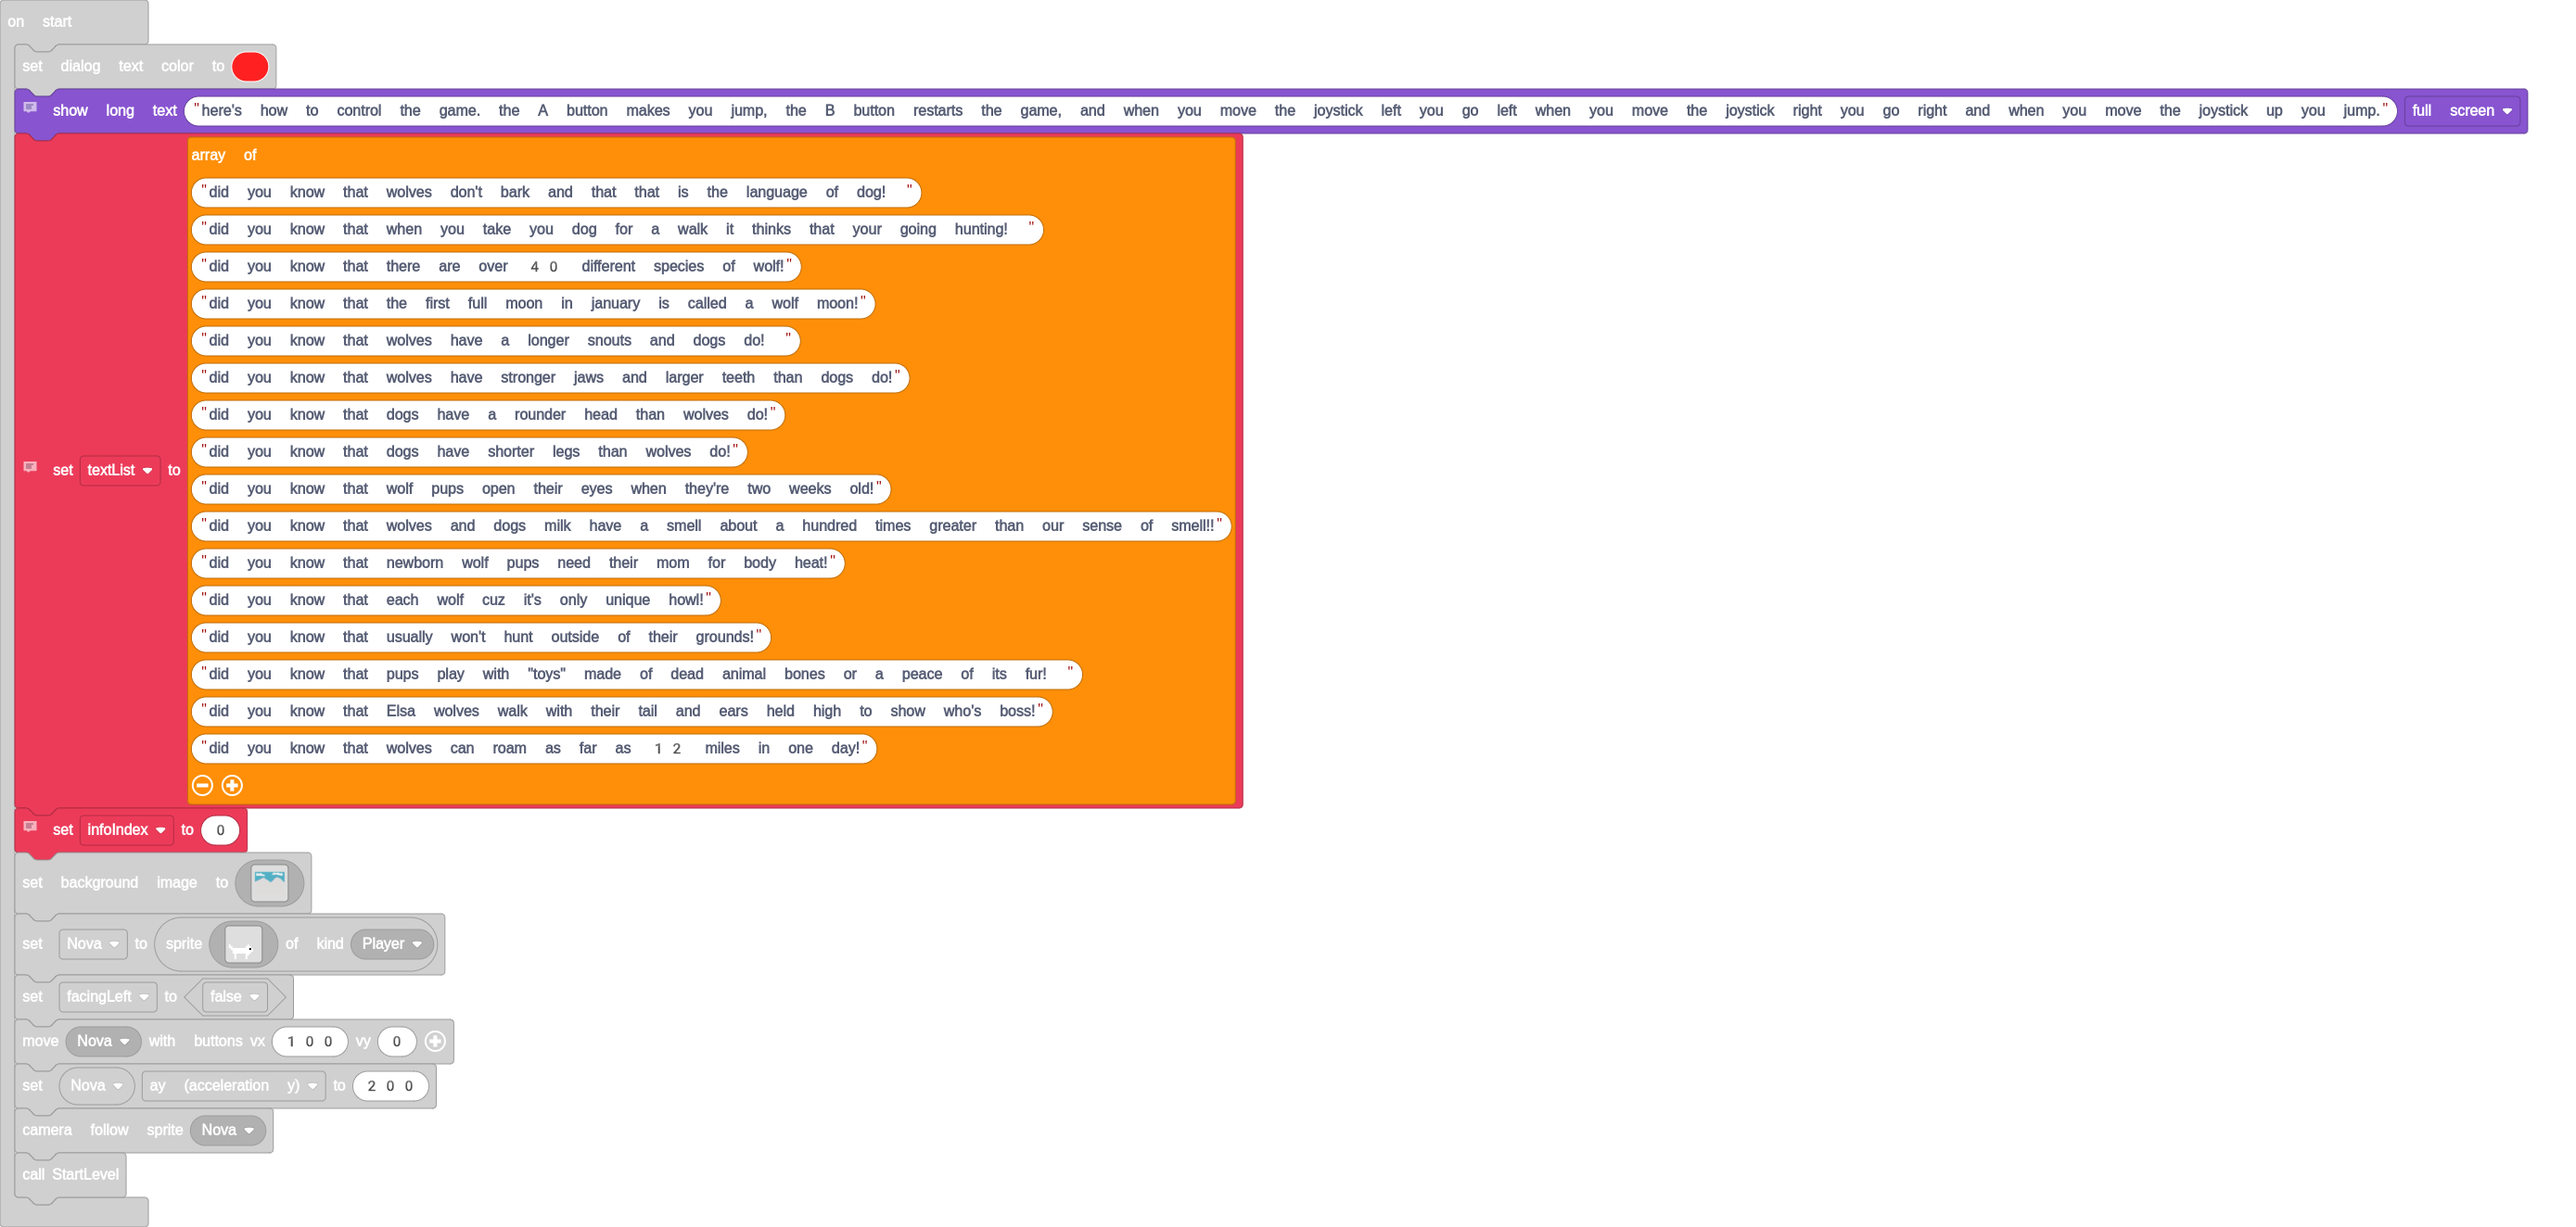
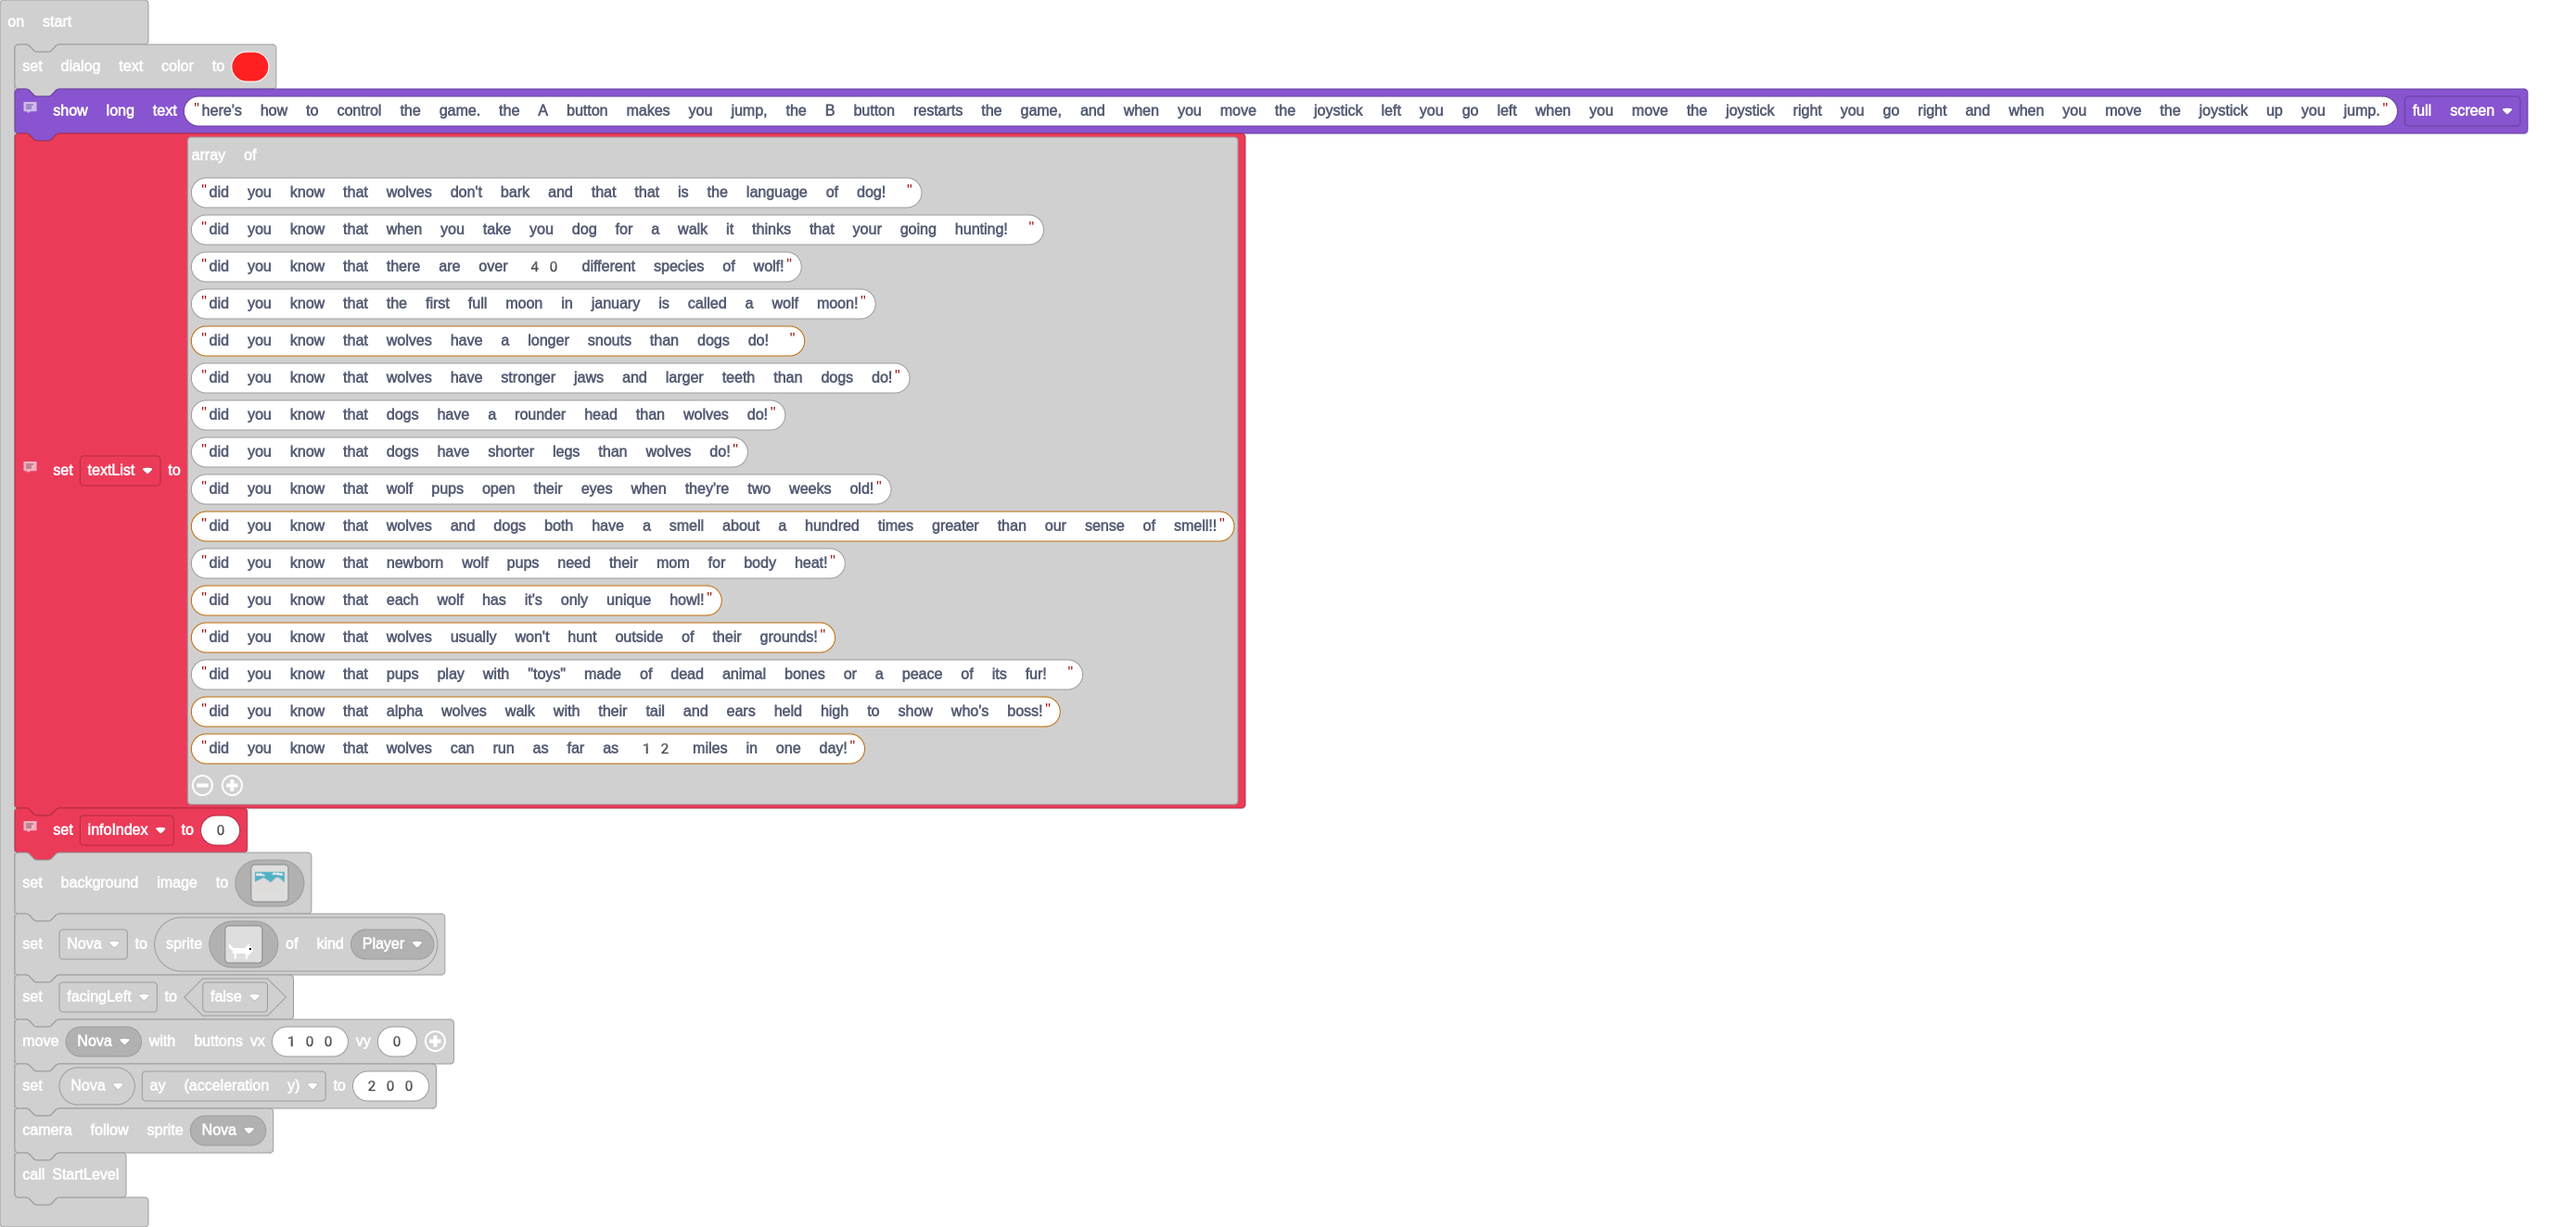
Update main.blocks, main.ts

Changed region(s): [[0.0619, 0.0929, 0.4953, 0.6813]]

diff --git a/main.ts b/main.ts
@@ -82,18 +82,18 @@ textList = [
 "did you know that when you take you dog for a walk it thinks that your going hunting! ",
 "did you know that there are over 40 different species of wolf!",
 "did you know that the first full moon in january is called a wolf moon!",
-"did you know that wolves have a longer snouts and dogs do! ",
+"did you know that wolves have a longer snouts than dogs do! ",
 "did you know that wolves have stronger jaws and larger teeth than dogs do!",
 "did you know that dogs have a rounder head than wolves do!",
 "did you know that dogs have shorter legs than wolves do!",
 "did you know that wolf pups open their eyes when they're two weeks old!",
-"did you know that wolves and dogs milk have a smell about a hundred times greater than our sense of smell!!",
+"did you know that wolves and dogs both have a smell about a hundred times greater than our sense of smell!!",
 "did you know that newborn wolf pups need their mom for body heat!",
-"did you know that each wolf cuz it's only unique howl!",
-"did you know that usually won't hunt outside of their grounds!",
+"did you know that each wolf has it's only unique howl!",
+"did you know that wolves usually won't hunt outside of their grounds!",
 "did you know that pups play with \"toys\" made of dead animal bones or a peace of its fur! ",
-"did you know that Elsa wolves walk with their tail and ears held high to show who's boss!",
-"did you know that wolves can roam as far as 12 miles in one day!"
+"did you know that alpha wolves walk with their tail and ears held high to show who's boss!",
+"did you know that wolves can run as far as 12 miles in one day!"
 ]
 // Keep track of which info string from textList should be displayed.  Starts counting at zero.
 infoIndex = 0
